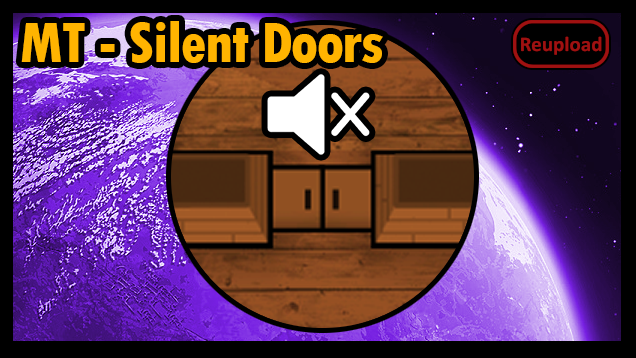
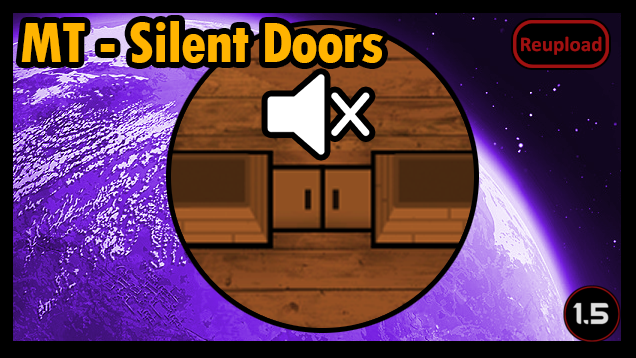
Mod updated for 1.5 and passed autotests

Changed region(s): [[0.8664, 0.7989, 0.9858, 0.9525]]

diff --git a/README.md b/README.md
@@ -24,11 +24,13 @@ Removes the sound effect from doors.
 
 -  See if the the error persists if you just have this mod and its requirements active.
 -  If not, try adding your other mods until it happens again.
--  Post your error-log using https://steamcommunity.com/workshop/filedetails/?id=818773962]HugsLib and command Ctrl+F12
+-  Post your error-log using https://steamcommunity.com/workshop/filedetails/?id=818773962]HugsLib or the standalone https://steamcommunity.com/sharedfiles/filedetails/?id=2873415404]Uploader and command Ctrl+F12
 -  For best support, please use the Discord-channel for error-reporting.
 -  Do not report errors by making a discussion-thread, I get no notification of that.
 -  If you have the solution for a problem, please post it to the GitHub repository.
+-  Use https://github.com/RimSort/RimSort/releases/latest]RimSort to sort your mods
 
 
 
+https://steamcommunity.com/sharedfiles/filedetails/changelog/2012447929]![Image](https://img.shields.io/github/v/release/emipa606/SilentDoors?label=latest%20version&style=plastic&color=9f1111&labelColor=black)
 
